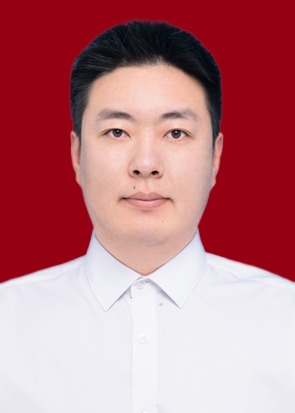
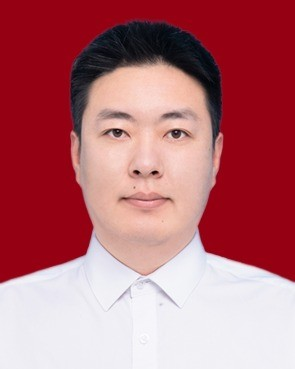
1

Changed region(s): [[0.0, 0.0298, 1.0, 0.8347], [0.3661, 0.7751, 0.4576, 0.8347]]

diff --git a/index.html b/index.html
@@ -3,7 +3,7 @@
 <head>
 <meta charset="utf-8" />
 <meta name="viewport" content="width=device-width, initial-scale=1" />
-<meta name="description" content="Yongkang Chen. Research on measuring AI systems and evaluating data quality." />
+<meta name="description" content="Yongkang Chen studies reliable AI systems, post-training, evaluation, and research infrastructure." />
 <title>Yongkang Chen</title>
 <link rel="icon" type="image/x-icon" href="favicon.ico" />
 <link rel="stylesheet" href="style.css" />
@@ -27,7 +27,8 @@
 <main id="main">
 <section class="intro" id="about" aria-label="About Yongkang Chen">
   <div class="page-head">
-    <p class="dek">I obtained my Ph.D. from the Academy of Military Sciences. My research focuses on artificial intelligence safety and evaluation.</p>
+    <p class="dek">I am a Ph.D. graduate in Computer Science from the Academy of Military Sciences, where I was affiliated with the National Key Laboratory of Science and Technology on Information System Security.</p>
+    <p class="dek">My research goal is to make LLM reliable in open-ended settings, where they must reason, use tools, and work with people. More broadly, I study how stronger post-training methods, better evaluations, and continuous safety monitoring can make LLM risks observable, assessable, and controllable.</p>
     <ul class="contact" aria-label="Contact links">
       <li><a href="mailto:ykchen824@foxmail.com">Email</a></li>
       <li><a href="https://scholar.google.com/citations?user=JLikgYwAAAAJ">Google Scholar</a></li>
@@ -79,7 +80,7 @@
     <li class="event">
       <div class="event-body">
         <span class="event-year" aria-hidden="true">2019</span>
-        <p class="event-org">Nanjing Intelligent Computing Chip Research Institute</p>
+        <p class="event-org">Nanjing Ningqi Intelligent Computing Chip Research Institute</p>
         <p class="event-role">Digital Circuit Engineer</p>
         <p class="event-date">Jun. 2019 – Oct. 2019</p>
       </div>

diff --git a/style.css b/style.css
@@ -51,11 +51,12 @@ a:hover { text-decoration-color:currentColor; }
 .theme-toggle:hover { color:var(--fg); background:var(--soft); }
 
 /* Intro */
-.intro { display:grid; grid-template-columns:minmax(0,1fr) auto; gap:2.5rem; align-items:start; }
-.page-head { margin-bottom:2.75rem; }
-.dek { max-width:40rem; margin:0; color:var(--fg-2); font-size:1.1875rem; line-height:1.45; text-wrap:pretty; }
+.intro { display:grid; grid-template-columns:minmax(0,1fr) auto; gap:3rem; align-items:start; }
+.page-head { margin-bottom:2.25rem; }
+.dek { max-width:40rem; margin:0; color:var(--fg-2); font-size:1.125rem; line-height:1.55; text-align:justify; text-align-last:left; text-justify:inter-word; text-wrap:pretty; }
+.dek + .dek { margin-top:1.1rem; }
 .contact { display:flex; flex-wrap:wrap; gap:.85rem 1.25rem; margin:1.5rem 0 0; padding:0; list-style:none; font-size:.9375rem; }
-.profile-picture { width:clamp(96px,10vw,120px); }
+.profile-picture { width:clamp(96px,9vw,112px); }
 .profile-photo { display:block; width:100%; height:auto; aspect-ratio:295 / 413; object-fit:cover; border:1px solid var(--rule); }
 .profile-photo-dark { display:none; }
 @media (prefers-color-scheme: dark) {
